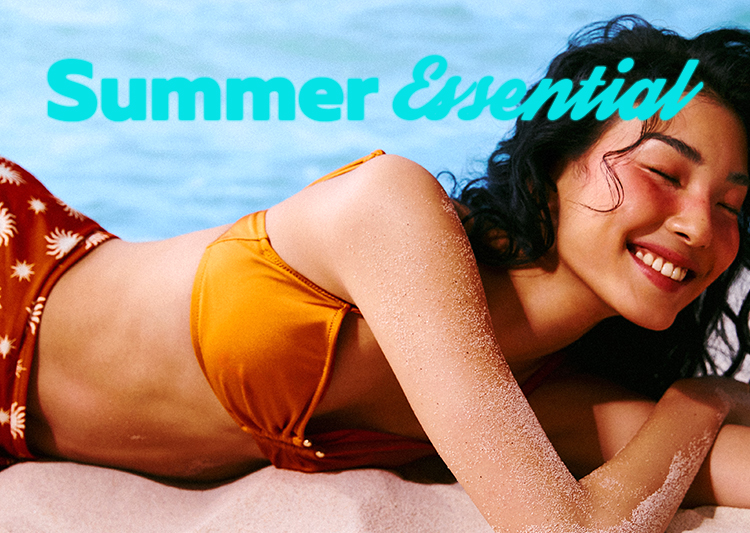
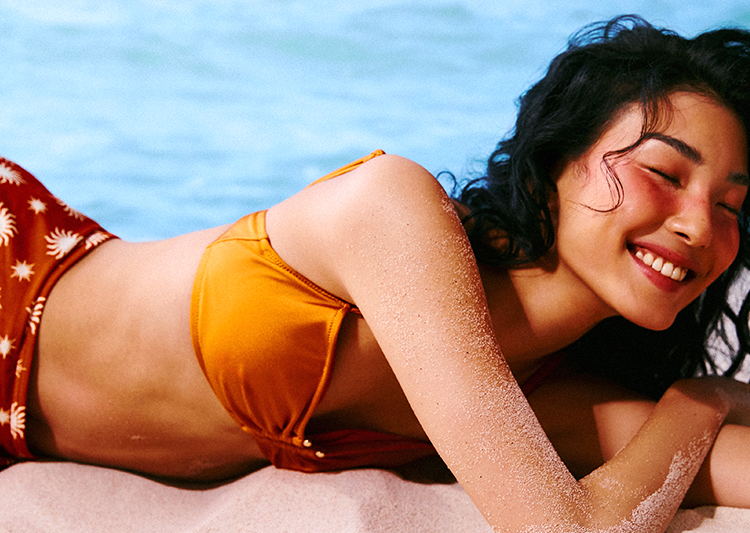
mo_03 revised photo+text overlay; mo_04 button pulse; mo_13 jpg swap; mo_17 rise-up speed up; photo-fade speed up; global reveal-txt entrance slightly delayed

Changed region(s): [[0.0613, 0.0901, 0.9507, 0.2402]]

diff --git a/css/style.css b/css/style.css
@@ -18,7 +18,7 @@ img{ display:block; width:100%; }
 .photo-fade{ position:relative; width:100%; overflow:hidden; }
 .photo-fade img{ width:100%; display:block; }
 .photo-fade img:not(:first-child){ position:absolute; top:0; left:0; }
-.photo-fade img{ animation-duration:9s; animation-timing-function:linear; animation-iteration-count:infinite; }
+.photo-fade img{ animation-duration:5.5s; animation-timing-function:linear; animation-iteration-count:infinite; }
 .photo-fade img:nth-child(1){ animation-name:fadeCycle1; }
 .photo-fade img:nth-child(2){ animation-name:fadeCycle2; }
 .photo-fade img:nth-child(3){ animation-name:fadeCycle3; }
@@ -90,6 +90,13 @@ img{ display:block; width:100%; }
 
 /* ---- 사진 1장 + 자유 위치 오버레이 (좌표는 inline style로 직접 지정) ---- */
 .ovl-wrap{ position:relative; width:100%; }
+
+/* mo_04: 다운로드 버튼 강조(맥박처럼 은은하게 커졌다 작아짐 + 은은한 글로우) */
+.pulse-btn{ position:absolute; display:block; border-radius:4px; animation:pulseBtn 1.8s ease-in-out infinite; }
+@keyframes pulseBtn{
+  0%,100%{ transform:scale(1); box-shadow:0 0 0 0 rgba(255,255,255,0); }
+  50%{ transform:scale(1.12); box-shadow:0 0 14px 4px rgba(20,200,190,.55); }
+}
 .static-txt > *:last-child{ position:absolute; inset:0; width:100%; }
 
 /* 텍스트 오버레이 스크롤 등장 모션 (js/reveal.js 가 .is-in 토글) — 방향별로 교차 사용 */
@@ -98,6 +105,8 @@ img{ display:block; width:100%; }
 .reveal-txt.dir-left{ transform:translateX(-90px); }        /* 왼쪽→오른쪽 */
 .reveal-txt.dir-right{ transform:translateX(90px); }        /* 오른쪽→왼쪽 */
 .reveal-txt.is-in{ opacity:1; transform:none; }
+
+/* mo_15: 왼쪽→오른쪽 등장(reveal-txt) 후, 텍스트 박스 안에서만 위로 무한 스크롤 */
 
 /* ---- 스크롤 연동(스크러빙) 전용: JS(reveal.js)가 휠 스크롤 진행률에 맞춰 transform 직접 갱신 ---- */
 /* 19: 스크롤할수록 사진이 줌인 */
@@ -224,11 +233,11 @@ img{ display:block; width:100%; }
 .rise-fade .rf-base{ position:relative; }
 .rise-fade .rf-a,.rise-fade .rf-b{
   position:absolute; inset:0; opacity:0; transform:translateY(100px);
-  transition:opacity 1.1s cubic-bezier(.16,.84,.34,1), transform 1.1s cubic-bezier(.16,.84,.34,1);
+  transition:opacity .85s cubic-bezier(.16,.84,.34,1), transform .85s cubic-bezier(.16,.84,.34,1);
 }
 .rise-fade.is-in .rf-a,.rise-fade.is-in .rf-b{ transform:translateY(0); }
-.rise-fade.is-in .rf-a{ opacity:1; animation:fadeAB1 6s linear .9s infinite; }
-.rise-fade.is-in .rf-b{ animation:fadeAB2 6s linear .9s infinite; }
+.rise-fade.is-in .rf-a{ opacity:1; animation:fadeAB1 4s linear .7s infinite; }
+.rise-fade.is-in .rf-b{ animation:fadeAB2 4s linear .7s infinite; }
 
 @media (prefers-reduced-motion: reduce){
   .hero-swipe__track,.swipe__track{ animation:none !important; }
@@ -241,5 +250,6 @@ img{ display:block; width:100%; }
   .rise-fade.is-in img:first-child,.rise-fade.is-in img:last-child{ animation:none !important; }
   .rise-fade img:last-child{ opacity:0 !important; }
   .glass-icon{ animation:none !important; opacity:1 !important; transform:scale(1) !important; }
+  .pulse-btn{ animation:none !important; transform:scale(1) !important; box-shadow:none !important; }
   .blur-scrub{ filter:none !important; }
 }

diff --git a/index.html b/index.html
@@ -30,9 +30,15 @@
   <img class="hero-panel" src="assets2/hero-panel.png" alt="GREEN MONSTER · HOLLYWOOD 48-HOUR" />
 
   <!-- 03 Summer Essential -->
-  <img src="assets2/r03.jpg" alt="" />
+  <div class="static-txt">
+    <img src="assets2/r03.jpg" alt="" />
+    <img class="reveal-txt" src="assets2/r03-text.png" alt="" />
+  </div>
   <!-- 04 Benefit -->
-  <img src="assets2/r04.jpg" alt="" />
+  <div class="ovl-wrap">
+    <img src="assets2/r04.jpg" alt="" />
+    <img class="pulse-btn" style="top:29.23%; left:77.33%; width:13.33%;" src="assets2/r04-btn.png" alt="" />
+  </div>
   <!-- 05 Chapter 01 title -->
   <img src="assets2/r05.jpg" alt="" />
 
@@ -73,7 +79,7 @@
     <img class="reveal-txt dir-right" src="assets2/r11-txt.png" alt="" />
   </div>
 
-  <!-- 12 크로스페이드 x3 -->
+  <!-- 12 크로스페이드 x3 (빠른 속도) -->
   <div class="photo-fade">
     <img src="assets2/r12-a.jpg" alt="" />
     <img src="assets2/r12-b.jpg" alt="" />
@@ -82,7 +88,7 @@
 
   <!-- 13 사진+텍스트(고정) -->
   <div class="static-txt">
-    <img src="assets2/r13.png" alt="" />
+    <img src="assets2/r13.jpg" alt="" />
     <img class="reveal-txt" src="assets2/r13-txt.png" alt="" />
   </div>
 

diff --git a/js/reveal.js b/js/reveal.js
@@ -13,7 +13,7 @@
     entries.forEach(function (entry) {
       if (!entry.isIntersecting) return;
       var el = entry.target;
-      var delay = el.classList.contains('rise-fade') ? 350 : 0;
+      var delay = el.classList.contains('rise-fade') ? 350 : 300;
       setTimeout(function () { el.classList.add('is-in'); }, delay);
       io.unobserve(el);
     });
